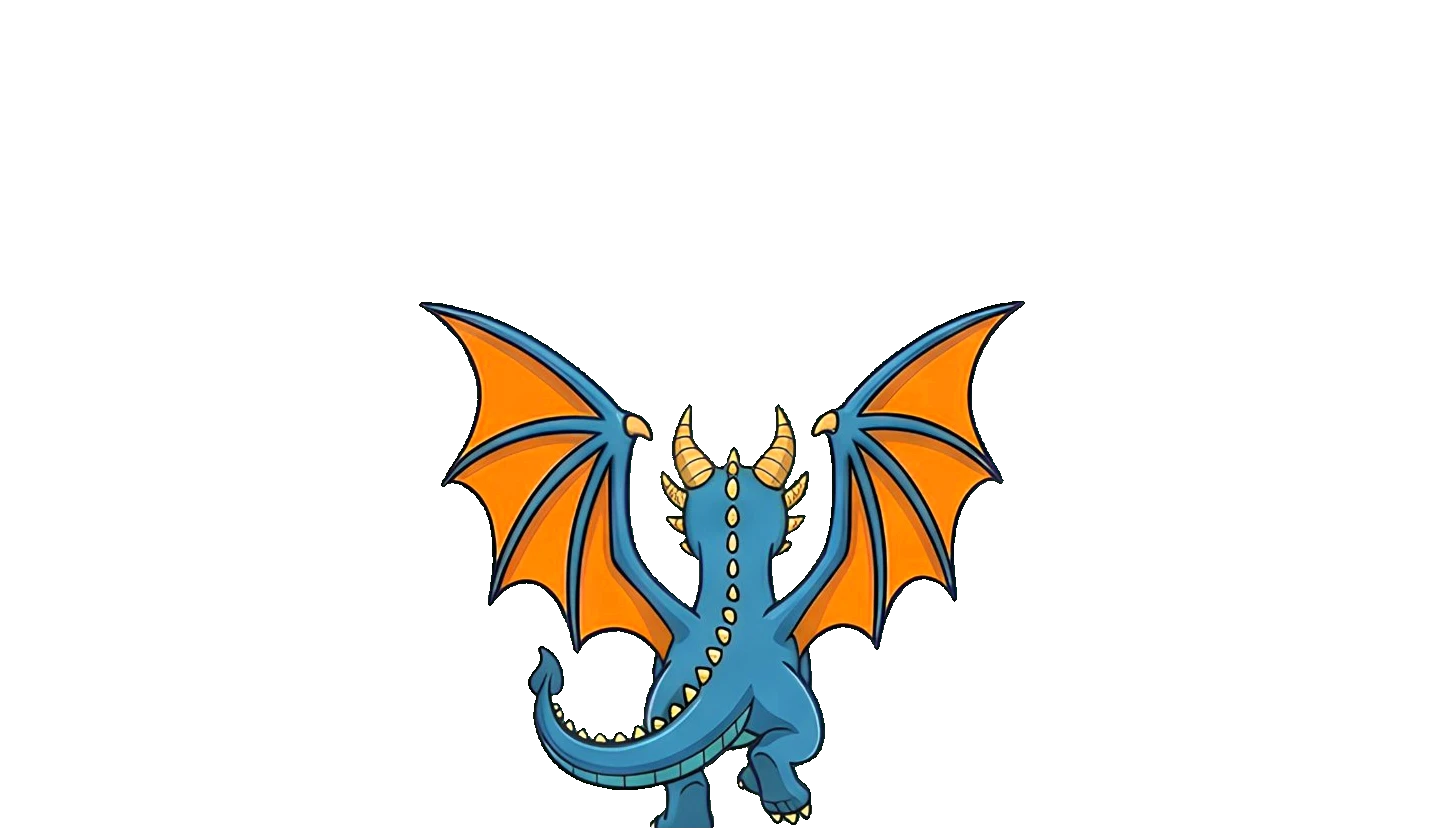
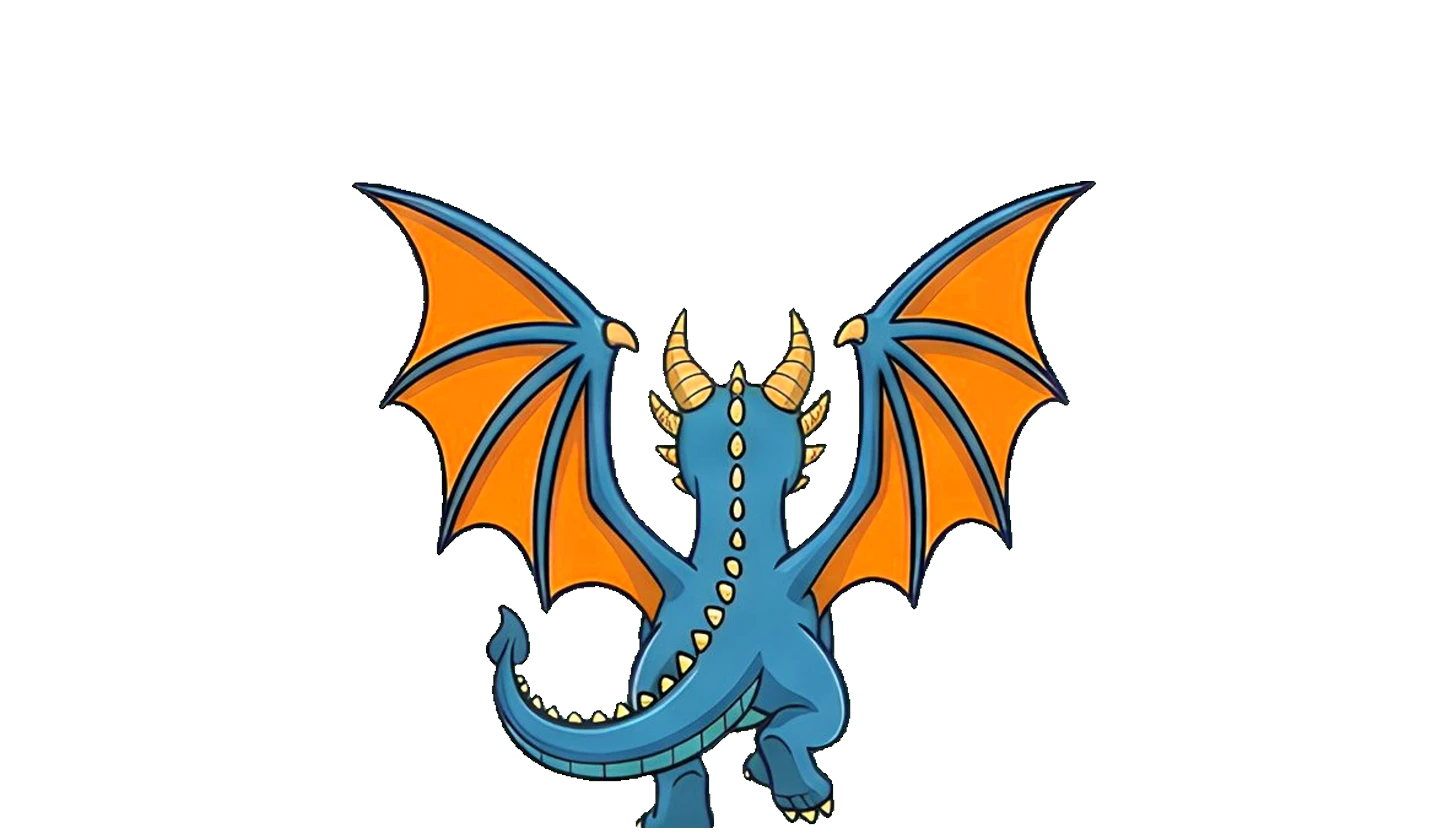
fix(jogo): dragão adulto sem encolher, tela do Programe o pet e corrida no celular em pé (PROMPT-52, 53 parte 1)
- dragão adulto: 24 quadros corrigidos; sentado_girando e comendo com 1 quadro
- Programe o pet: cartão do capítulo por cima dos blocos; pet medido pelo desenho e cabendo na casa
- corrida/fases no celular em pé: o jogo gira 90° e o Blockly não encaixava os blocos; a tela do Programe agora aparece sem girar
- atalhos de teste do laboratório em jogoRevisaoDev (só ?dev=1 no modo teste)

Changed region(s): [[0.2456, 0.2177, 0.7676, 0.9952]]

diff --git a/css/jogo-revisao.css b/css/jogo-revisao.css
@@ -2032,7 +2032,8 @@ html.jr-letra-grande .jr-fala:not(.completa) { -webkit-line-clamp: 4; line-clamp
 .pg-tela { position: fixed; inset: 0; z-index: 60; display: flex; gap: 8px; background: var(--jr-bg, #0d0f1a);
   padding: max(6px, var(--sa-t, 0px)) max(8px, var(--sa-r, 0px)) max(6px, var(--sa-b, 0px)) max(8px, var(--sa-l, 0px)); box-sizing: border-box; }
 .pg-esq { flex: 0 0 44%; min-width: 0; display: flex; flex-direction: column; gap: 6px; }
-.pg-dir { flex: 1; min-width: 0; position: relative; display: flex; flex-direction: column; border-radius: 12px; overflow: hidden; border: 1px solid rgba(124,92,252,.4); }
+.pg-dir { flex: 1; min-width: 0; position: relative; display: flex; flex-direction: column; border-radius: 12px; overflow: hidden; border: 1px solid rgba(124,92,252,.4);
+  isolation: isolate; }   /* os z-index do Blockly (flyout, toolbox) ficam presos aqui dentro */
 .pg-topo { display: flex; align-items: center; gap: 8px; }
 .pg-tit { flex: 1; min-width: 0; display: flex; flex-direction: column; line-height: 1.1; }
 .pg-tit b { font-family: 'Rajdhani', sans-serif; font-size: 20px; font-weight: 700; color: var(--jr-ouro, #ffd700); white-space: nowrap; overflow: hidden; text-overflow: ellipsis; }
@@ -2053,7 +2054,7 @@ html.jr-letra-grande .jr-fala:not(.completa) { -webkit-line-clamp: 4; line-clamp
   width: calc((1 - 2 * var(--m)) * var(--s)); height: calc((1 - 2 * var(--m)) * var(--s)); object-fit: contain; pointer-events: none; image-rendering: auto; }
 #jr-app img.pg-petisco { --m: .26; transition: transform .3s, opacity .3s; }
 #jr-app img.pg-petisco.pego { transform: translateY(-40%) scale(.4); opacity: 0; }
-.pg-pet-caixa { position: absolute; left: calc((var(--x) + .5) * var(--s)); top: calc((var(--y) + .94) * var(--s)); transform: translate(-50%, -100%);
+.pg-pet-caixa { position: absolute; left: calc((var(--x) + .5) * var(--s)); top: calc((var(--y) + .975) * var(--s)); transform: translate(-50%, -100%);
   transition: left .35s linear, top .35s linear; pointer-events: none; z-index: 2; display: flex; flex-direction: column; align-items: center; }
 .pg-pet-caixa.outro { z-index: 1; opacity: .92; }
 #jr-app img.pg-pet { display: block; width: auto; image-rendering: auto; filter: drop-shadow(0 2px 2px rgba(0,0,0,.35)); }
@@ -2075,12 +2076,12 @@ html.jr-letra-grande .jr-fala:not(.completa) { -webkit-line-clamp: 4; line-clamp
 .pg-rodape { padding: 4px 10px; font-family: 'Inter', sans-serif; font-size: 13px; color: #c9cde0; background: #161a2e; border-top: 1px solid rgba(124,92,252,.3); }
 .pg-rodape b { color: var(--jr-ouro, #ffd700); font-family: 'Orbitron', sans-serif; }
 .pg-rodape small { color: #a3a1c9; }
-.pg-trava { position: absolute; inset: 0; z-index: 5; background: rgba(13,15,26,.55); display: flex; align-items: center; justify-content: center;
+.pg-trava { position: absolute; inset: 0; z-index: 100; background: rgba(13,15,26,.55); display: flex; align-items: center; justify-content: center;
   font: 700 16px 'Inter', sans-serif; color: #fff; text-align: center; padding: 16px; }
-.pg-carregando { position: absolute; inset: 0; display: flex; align-items: center; justify-content: center; text-align: center; padding: 16px;
+.pg-carregando { position: absolute; inset: 0; z-index: 100; display: flex; align-items: center; justify-content: center; text-align: center; padding: 16px;
   font: 600 14px 'Inter', sans-serif; color: #c9cde0; background: #11142a; }
 .pg-carregando[hidden] { display: none; }
-.pg-cartao { position: absolute; inset: 0; z-index: 10; display: flex; align-items: center; justify-content: center; background: rgba(5,6,15,.7); padding: 16px; }
+.pg-cartao { position: absolute; inset: 0; z-index: 100; display: flex; align-items: center; justify-content: center; background: rgba(5,6,15,.7); padding: 16px; }
 .pg-cartao-caixa { box-sizing: border-box; width: min(92vw, 440px); background: var(--jr-card); border: 2px solid var(--jr-ouro, #ffd700); border-radius: 16px; padding: 14px 16px;
   display: flex; flex-direction: column; gap: 8px; text-align: center; }
 .pg-cartao-caixa b { font: 700 20px 'Rajdhani', sans-serif; color: var(--jr-ouro, #ffd700); }
@@ -2090,6 +2091,10 @@ html.jr-letra-grande .jr-fala:not(.completa) { -webkit-line-clamp: 4; line-clamp
   .pg-tela { flex-direction: column; }
   .pg-esq { flex: 0 0 46%; }
 }
+/* Celular em pé: o jogo inteiro gira 90° (html.jr-girado), mas o Blockly não funciona dentro de algo girado (arrastar e
+   encaixar erram de lugar). Então o Programe o pet desfaz o giro e aparece em pé: o aluno segura o celular em pé para programar. */
+html.jr-girado #programe { inset: auto; top: 0; left: 0; width: 100vw; height: 100dvh; transform-origin: 0 0; transform: translateY(100vw) rotate(-90deg);
+  --sa-t: env(safe-area-inset-top, 0px); --sa-r: env(safe-area-inset-right, 0px); --sa-b: env(safe-area-inset-bottom, 0px); --sa-l: env(safe-area-inset-left, 0px); }
 /* lista de fases no computador do laboratório */
 .pg-caps { display: flex; flex-direction: column; gap: 8px; max-height: min(52dvh, 360px); overflow-y: auto; text-align: left; }
 .pg-cap b { font: 700 15px 'Rajdhani', sans-serif; color: #c9b8ff; }

diff --git a/js/jogo-revisao/programe.js b/js/jogo-revisao/programe.js
@@ -154,6 +154,7 @@ export async function abrirTela(cfg) {
   // grade e pets
   montarGrade();
   if (cfg.fimEm) relogio();
+  if (document.documentElement.classList.contains('jr-girado')) msg('📱 Para programar, segure o celular em pé.', 'aviso');   // a tela aparece sem girar
   setTimeout(() => B.svgResize(ws), 50);
   return true;
 }
@@ -212,22 +213,72 @@ function criarPet(p, ini, quem) {
   g.appendChild(el);
   const img = el.querySelector('img');
   if (p?.pet) C.pintar(img, p);   // tinta do pet (o meu ou o do rival)
-  const pet = { el, img, p, ini, x: ini.x, y: ini.y, dir: ini.dir, anim: '', q: 0 };
+  const pet = { el, img, p, ini, x: ini.x, y: ini.y, dir: ini.dir, anim: '', q: 0, medida: null };
   posicionar(pet, true);
   pose(pet, 'parado');
+  const forma = p?.forma || p?.pet;
+  if (forma) medirDesenho(forma).then(m => { pet.medida = m; medirGrade(); });   // tamanho certo assim que medir o desenho
   return pet;
 }
+
+// ── Tamanho do pet na casa: mede o DESENHO (pixels visíveis), não o quadro ──
+// Cada quadro tem folga em volta (asas, pulos). Medimos a caixa dos pixels com alpha > 0 dos quadros de andar e do feliz e
+// usamos UMA escala para o pet todo: a maior em que todos cabem em 0,95 × 0,95 da casa (ele não muda de tamanho ao virar).
+const ANIMS_MEDIDA = ['andar_direita', 'andar_frente', 'andar_costas', 'feliz'];
+const CABE = 0.95;
+const caixas = new Map();   // src → Promise<{ x0, y0, x1, y1, w, h } em fração do quadro | null>
+function caixaDoQuadro(src) {
+  if (!caixas.has(src)) caixas.set(src, new Promise((ok) => {
+    const im = new Image();
+    im.onload = () => {
+      try {
+        const k = Math.min(1, 240 / im.naturalWidth), w = Math.max(1, Math.round(im.naturalWidth * k)), h = Math.max(1, Math.round(im.naturalHeight * k));
+        const cv = document.createElement('canvas'); cv.width = w; cv.height = h;
+        const ctx = cv.getContext('2d', { willReadFrequently: true });
+        ctx.drawImage(im, 0, 0, w, h);
+        const px = ctx.getImageData(0, 0, w, h).data;
+        let x0 = w, y0 = h, x1 = -1, y1 = -1;
+        for (let y = 0; y < h; y++) for (let x = 0; x < w; x++) if (px[(y * w + x) * 4 + 3] > 8) { if (x < x0) x0 = x; if (x > x1) x1 = x; if (y < y0) y0 = y; if (y > y1) y1 = y; }
+        ok(x1 < 0 ? null : { x0: x0 / w, y0: y0 / h, x1: (x1 + 1) / w, y1: (y1 + 1) / h, w: im.naturalWidth, h: im.naturalHeight });
+      } catch (_) { ok(null); }
+    };
+    im.onerror = () => ok(null);
+    im.src = src;
+  }));
+  return caixas.get(src);
+}
+// Medida do pet: { alt: altura da imagem em casas, baixo: folga vazia embaixo (fração do quadro) }
+const medidas = new Map();
+function medirDesenho(forma) {
+  if (!medidas.has(forma)) medidas.set(forma, (async () => {
+    const srcs = [...new Set(ANIMS_MEDIDA.flatMap(a => C.quadrosDe(forma, a)))];
+    const cs = (await Promise.all(srcs.map(caixaDoQuadro))).filter(Boolean);
+    if (!cs.length) return null;
+    // altura da imagem (em casas) para cada quadro caber: altura do desenho ≤ 0,95 e largura do desenho ≤ 0,95
+    const alt = Math.min(...cs.map(c => Math.min(CABE / (c.y1 - c.y0), CABE / ((c.x1 - c.x0) * c.w / c.h))));
+    const baixo = Math.min(...cs.map(c => 1 - c.y1));   // o pé mais baixo encosta na base da casa
+    return { alt, baixo };
+  })());
+  return medidas.get(forma);
+}
+
 function medirGrade() {
   if (!tela) return;
   const { F } = tela, cx = $('pg-grade-caixa').getBoundingClientRect();
+  if (cx.width < 10 || cx.height < 10) return;   // ainda sem tamanho (a tela acabou de aparecer)
   const s = Math.max(16, Math.floor(Math.min(cx.width / F.w, cx.height / F.h)));
   $('pg-grade').style.setProperty('--s', s + 'px');
   for (const pet of Object.values(tela.pets || {})) {
-    const forma = pet.p?.forma || pet.p?.pet;
-    pet.img.style.height = (s * 0.92 / (forma ? C.sentadoNoQuadro(forma) : 0.86)) + 'px';
+    const forma = pet.p?.forma || pet.p?.pet, m = pet.medida;
+    // sem a medida ainda: a conta antiga (o desenho sentado com ~0,9 da casa)
+    const h = m ? s * m.alt : s * 0.9 / (forma ? C.sentadoNoQuadro(forma) : 0.86);
+    pet.img.style.height = h + 'px';
+    pet.img.style.marginBottom = m ? -(h * m.baixo) + 'px' : '';   // desconta a folga vazia de baixo: o pé fica na base da casa
   }
 }
 window.addEventListener('resize', () => { if (tela) { medirGrade(); try { window.Blockly?.svgResize(ws); } catch (_) {} } });
+// a área da grade muda de tamanho (tela aparecendo, celular girando, mensagem de 2 linhas): mede de novo
+if (window.ResizeObserver) new ResizeObserver(() => { if (tela) medirGrade(); }).observe(document.getElementById('pg-grade-caixa') || document.body);
 
 function posicionar(pet, sem = false) {
   pet.el.style.transition = sem ? 'none' : '';

diff --git a/js/jogo-revisao.js b/js/jogo-revisao.js
@@ -507,7 +507,8 @@ export async function iniciarJogo(sess) {
   ligarOrientacao();   // já desenha deitado na tela "Carregando o jogo…"
   modoDev = new URLSearchParams(location.search).get('dev') === '1' && isModoTeste();
   // só para a professora testar pelo console (?dev=1 no modo teste): jogoRevisaoDev.somarTurma('ZZ_DEV', 'insignias')
-  if (modoDev) window.jogoRevisaoDev = { somarTurma, batalha: () => bt, pesca: () => pesca };   // batalha/pesca em andamento (testes)
+  if (modoDev) window.jogoRevisaoDev = { somarTurma, batalha: () => bt, pesca: () => pesca,   // batalha/pesca em andamento (testes)
+    praca: () => abrirPraca(), laboratorio: () => abrirLaboratorio(), computador: (id) => abrirComputador(id), fantasma: () => abrirFantasma(), fase: (n) => abrirFasePrograme(n), escolherPet: (p) => escolherPet(p) };
 
   try {
     const pegar = (p) => fetch(`${DADOS}/${p}`).then(r => { if (!r.ok) throw new Error(p); return r.json(); });
